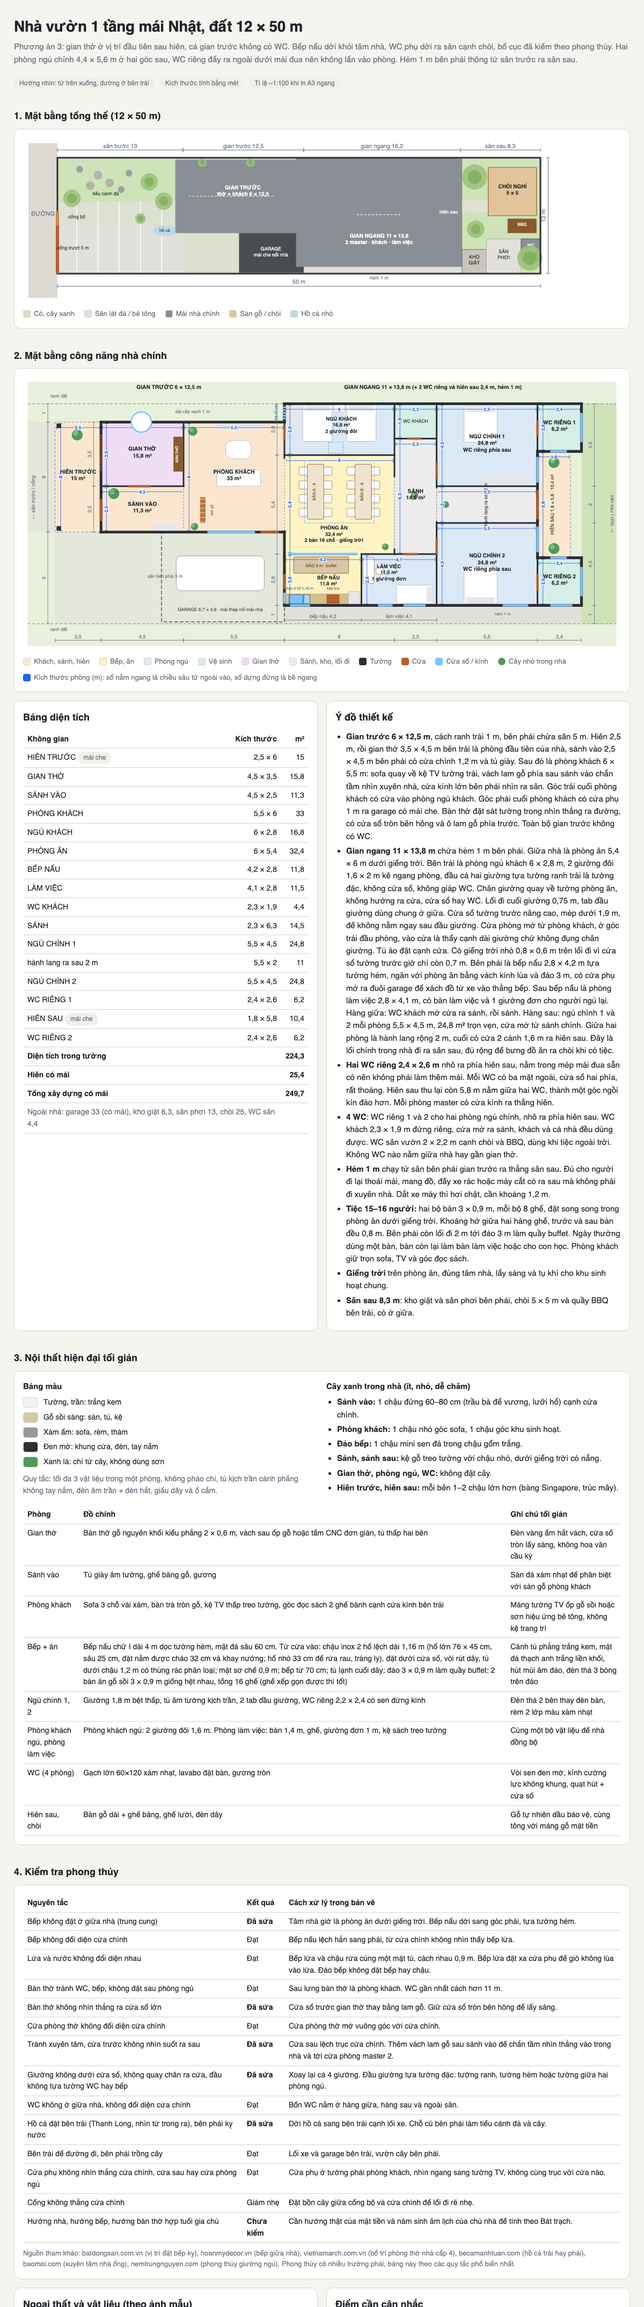
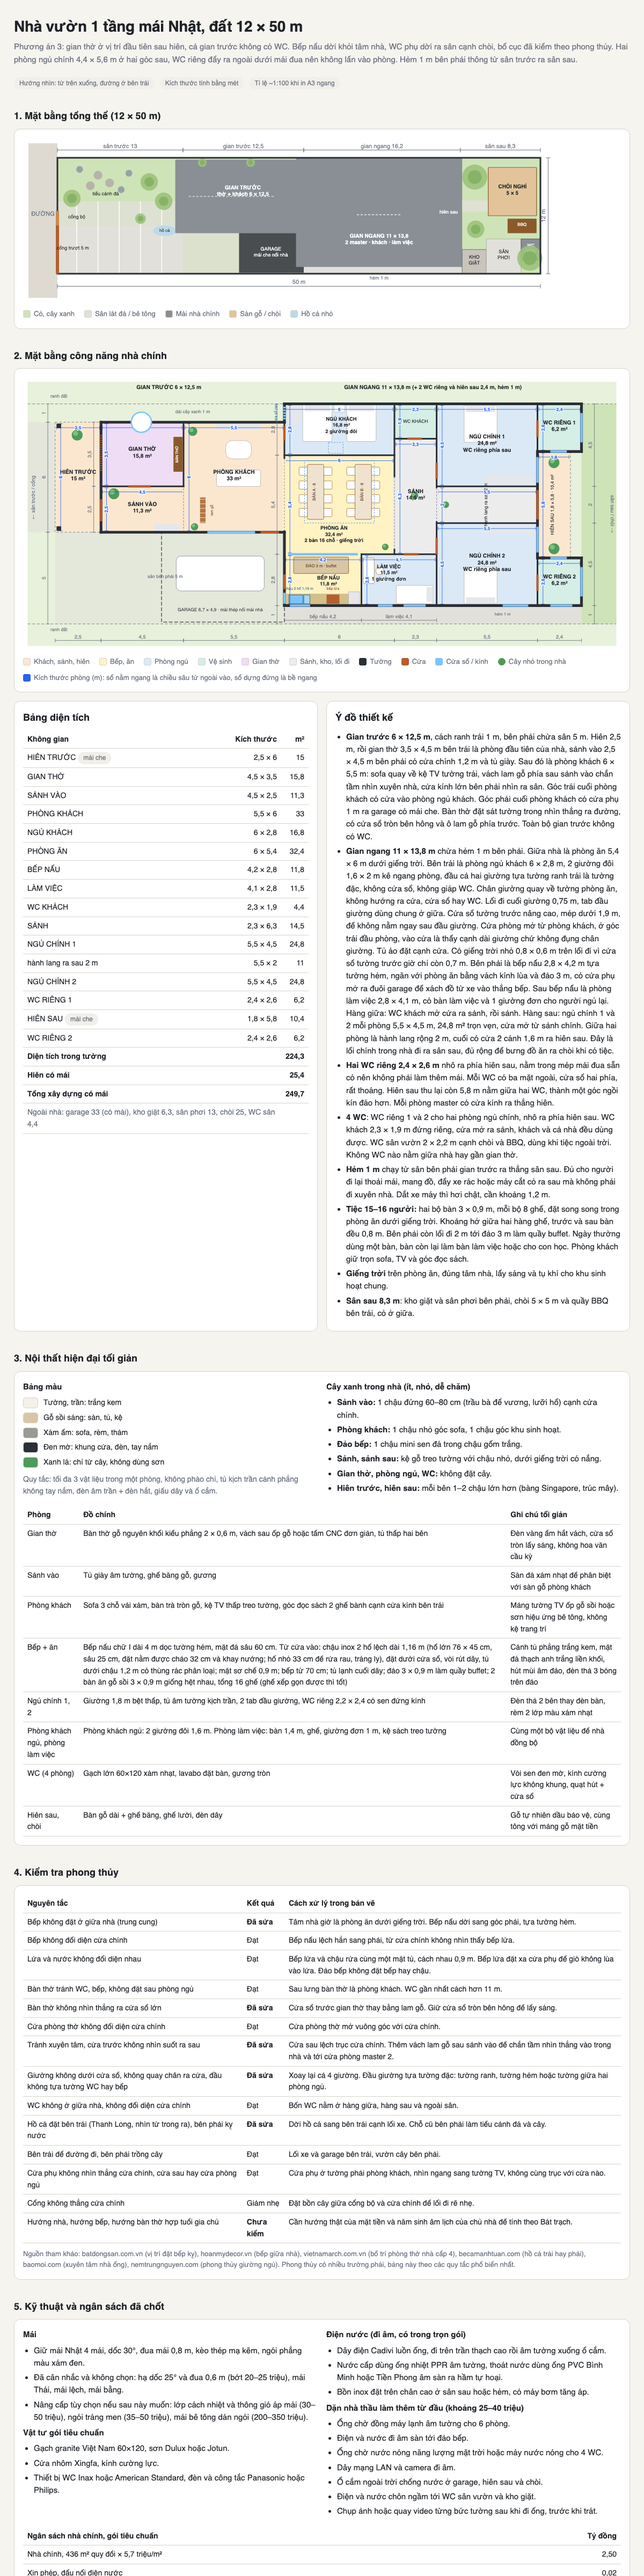
Ghi chú mái, vật tư tiêu chuẩn, điện nước âm và ngân sách 2,8 tỷ

Changed region(s): [[0.0308, 0.0, 0.9558, 1.0], [0.2158, 0.4051, 0.2467, 0.4363]]

diff --git a/mat-bang-nha-12x50.html b/mat-bang-nha-12x50.html
@@ -159,6 +159,55 @@
     </table>
     <p style="margin:10px 0 0;color:var(--muted);font-size:13px">Nguồn tham khảo: batdongsan.com.vn (vị trí đặt bếp kỵ), hoanmydecor.vn (bếp giữa nhà), vietnamarch.com.vn (bố trí phòng thờ nhà cấp 4), becamanhtuan.com (hồ cá trái hay phải), baomoi.com (xuyên tâm nhà ống), nemtrungnguyen.com (phong thủy giường ngủ). Phong thủy có nhiều trường phái, bảng này theo các quy tắc phổ biến nhất.</p>
   </div>
+
+  <h2>5. Kỹ thuật và ngân sách đã chốt</h2>
+  <div class="card">
+    <div class="grid">
+      <div>
+        <b>Mái</b>
+        <ul>
+          <li>Giữ mái Nhật 4 mái, dốc 30°, đua mái 0,8 m, kèo thép mạ kẽm, ngói phẳng màu xám đen.</li>
+          <li>Đã cân nhắc và không chọn: hạ dốc 25° và đua 0,6 m (bớt 20–25 triệu), mái Thái, mái lệch, mái bằng.</li>
+          <li>Nâng cấp tùy chọn nếu sau này muốn: lớp cách nhiệt và thông gió áp mái (30–50 triệu), ngói tráng men (35–50 triệu), mái bê tông dán ngói (200–350 triệu).</li>
+        </ul>
+        <b>Vật tư gói tiêu chuẩn</b>
+        <ul>
+          <li>Gạch granite Việt Nam 60×120, sơn Dulux hoặc Jotun.</li>
+          <li>Cửa nhôm Xingfa, kính cường lực.</li>
+          <li>Thiết bị WC Inax hoặc American Standard, đèn và công tắc Panasonic hoặc Philips.</li>
+        </ul>
+      </div>
+      <div>
+        <b>Điện nước (đi âm, có trong trọn gói)</b>
+        <ul>
+          <li>Dây điện Cadivi luồn ống, đi trên trần thạch cao rồi âm tường xuống ổ cắm.</li>
+          <li>Nước cấp dùng ống nhiệt PPR âm tường, thoát nước dùng ống PVC Bình Minh hoặc Tiền Phong âm sàn ra hầm tự hoại.</li>
+          <li>Bồn inox đặt trên chân cao ở sân sau hoặc hẻm, có máy bơm tăng áp.</li>
+        </ul>
+        <b>Dặn nhà thầu làm thêm từ đầu (khoảng 25–40 triệu)</b>
+        <ul>
+          <li>Ống chờ đồng máy lạnh âm tường cho 6 phòng.</li>
+          <li>Điện và nước đi âm sàn tới đảo bếp.</li>
+          <li>Ống chờ nước nóng năng lượng mặt trời hoặc máy nước nóng cho 4 WC.</li>
+          <li>Dây mạng LAN và camera đi âm.</li>
+          <li>Ổ cắm ngoài trời chống nước ở garage, hiên sau và chòi.</li>
+          <li>Điện và nước chôn ngầm tới WC sân vườn và kho giặt.</li>
+          <li>Chụp ảnh hoặc quay video từng bức tường sau khi đi ống, trước khi trát.</li>
+        </ul>
+      </div>
+    </div>
+    <table style="margin-top:12px">
+      <thead><tr><th>Ngân sách nhà chính, gói tiêu chuẩn</th><th class="num">Tỷ đồng</th></tr></thead>
+      <tbody>
+        <tr><td>Nhà chính, 436 m² quy đổi × 5,7 triệu/m²</td><td class="num">2,50</td></tr>
+        <tr><td>Xin phép, đấu nối điện nước</td><td class="num">0,02</td></tr>
+        <tr><td>Điện nước làm thêm từ đầu</td><td class="num">0,03</td></tr>
+        <tr><td>Dự phòng 10%</td><td class="num">0,26</td></tr>
+      </tbody>
+      <tfoot><tr><td>Tổng</td><td class="num">≈ 2,8</td></tr></tfoot>
+    </table>
+    <p style="margin:8px 0 0;color:var(--muted);font-size:13px">Đất có sẵn, thiết kế ý tưởng đã có. Bản vẽ kết cấu và điện nước để xin phép thường do nhà thầu trọn gói làm kèm, nếu thuê riêng khoảng 15–30 triệu. Chưa gồm: nội thất rời (khoảng 0,45 tỷ), garage, hàng rào và cổng, sân lát (khoảng 0,37 tỷ), chòi, cây cối, tiểu cảnh (làm sau), san lấp nền nếu đất trũng (50–80 triệu). Vật tư tiêu chuẩn giữ nguyên, mái giữ nguyên.</p>
+  </div>
   <div class="grid" style="margin-top:16px">
     <div class="card">
       <h2 style="margin-top:0">Ngoại thất và vật liệu (theo ảnh mẫu)</h2>
@@ -178,7 +227,7 @@
         <li><b>Cửa sổ ra hẻm 1 m:</b> theo quy định chung, tường cách ranh dưới 2 m chỉ được mở cửa sổ cao (mép dưới từ 2 m) hoặc lam thoáng. Tao vẽ WC khách, ngủ 4 và WC riêng 2 theo kiểu này.</li>
         <li><b>Phòng ngủ khách</b> chỉ còn cửa sổ cao 0,7 m ở tường trước vì gian trước đã dời sát trái. Tao thêm giếng trời nhỏ để bù sáng và thoáng.</li>
         <li><b>WC khách</b> cách phòng khách khoảng 10 m (qua bếp và sảnh). Nếu muốn gần hơn thì đặt ở góc sau phải phòng khách, nhưng khi đó WC nằm cùng gian với gian thờ, tao không khuyến khích.</li>
-        <li><b>Dự toán đã chốt: gói vật tư tiêu chuẩn</b> (giá 2026, đất có sẵn, đã có thiết kế). Nhà chính khoảng 436 m² quy đổi, gồm sàn, móng 40%, mái ngói 40%, hiên 50%, × 5,7 triệu/m² ≈ 2,5 tỷ. Cộng xin phép, đấu nối điện nước ≈ 2,52 tỷ, dự phòng 10% ≈ <b>2,77 tỷ</b>. Chưa gồm nội thất rời, garage, hàng rào, sân, chòi và cây cối, san lấp nền. Vật tư tiêu chuẩn: gạch granite Việt Nam 60×120, sơn Dulux/Jotun, cửa nhôm Xingfa kính cường lực, thiết bị WC Inax/American Standard, đèn Panasonic/Philips.</li>
+        <li><b>Ngân sách đã chốt:</b> gói vật tư tiêu chuẩn, nhà chính khoảng 2,8 tỷ có dự phòng. Chi tiết ở mục 5.</li>
       </ul>
     </div>
   </div>

diff --git a/BOI-CANH-DU-AN.md b/BOI-CANH-DU-AN.md
@@ -22,8 +22,11 @@
 - Sân sau 8,3 m: kho giặt, sân phơi, chòi 5 x 5 + BBQ, WC sân vườn cạnh chòi.
 - Đã kiểm theo phong thủy (bảng trong mat-bang-nha-12x50.html). Chưa có hướng nhà và năm sinh gia chủ.
 
-## Ngân sách đã chốt
-- Gói vật tư tiêu chuẩn: nhà chính ≈ 2,52 tỷ, có dự phòng 10% ≈ 2,77 tỷ. Đất có sẵn, thiết kế đã có. Chưa gồm nội thất, garage, rào, sân, chòi, cây.
+## Ngân sách và kỹ thuật đã chốt
+- Gói vật tư tiêu chuẩn: gạch granite VN 60x120, sơn Dulux/Jotun, cửa nhôm Xingfa kính cường lực, thiết bị WC Inax/American Standard, đèn Panasonic/Philips.
+- Mái giữ nguyên: mái Nhật 4 mái, dốc 30°, đua 0,8 m, kèo thép mạ kẽm, ngói phẳng xám đen.
+- Điện nước đi âm (dây Cadivi, PPR, PVC Bình Minh/Tiền Phong), bồn inox + bơm tăng áp. Làm thêm từ đầu: ống chờ máy lạnh 6 phòng, điện nước âm sàn tới đảo bếp, ống chờ nước nóng 4 WC, LAN + camera âm, ổ cắm ngoài trời, điện nước ngầm tới WC sân và kho giặt (25–40 triệu).
+- Nhà chính ≈ 2,8 tỷ có dự phòng 10%. Đất có sẵn, thiết kế ý tưởng có sẵn. Chưa gồm nội thất (~0,45 tỷ), garage + rào + sân lát (~0,37 tỷ), chòi và cây (làm sau), san lấp nền.
 
 ## File có sẵn trong thư mục này
 - mat-bang-nha-12x50.html / .png: mặt bằng tổng thể, mặt bằng công năng, bảng diện tích, nội thất, dự toán thô.
